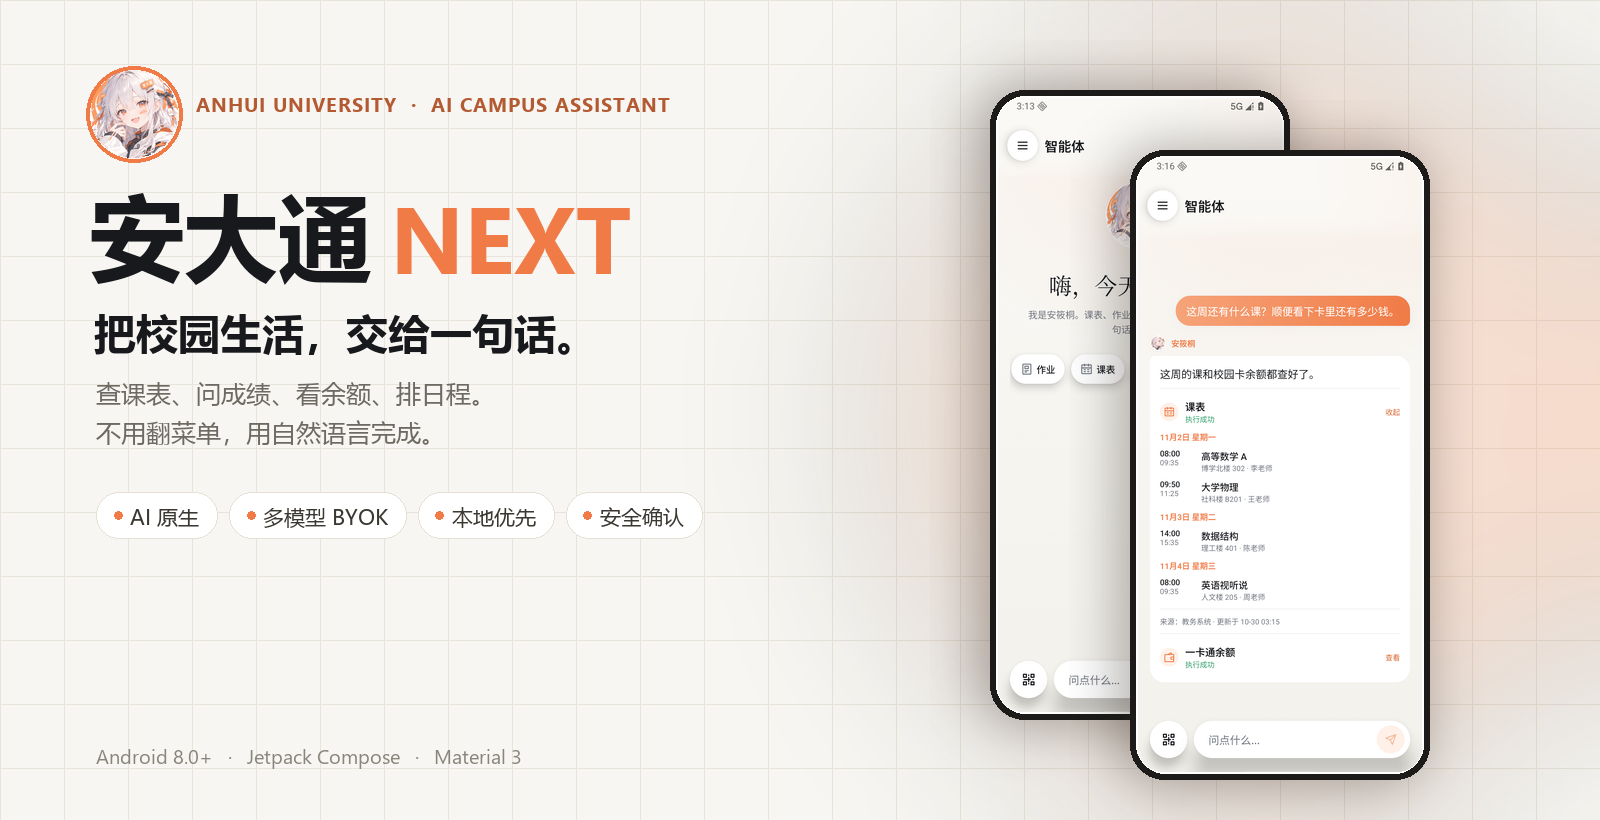
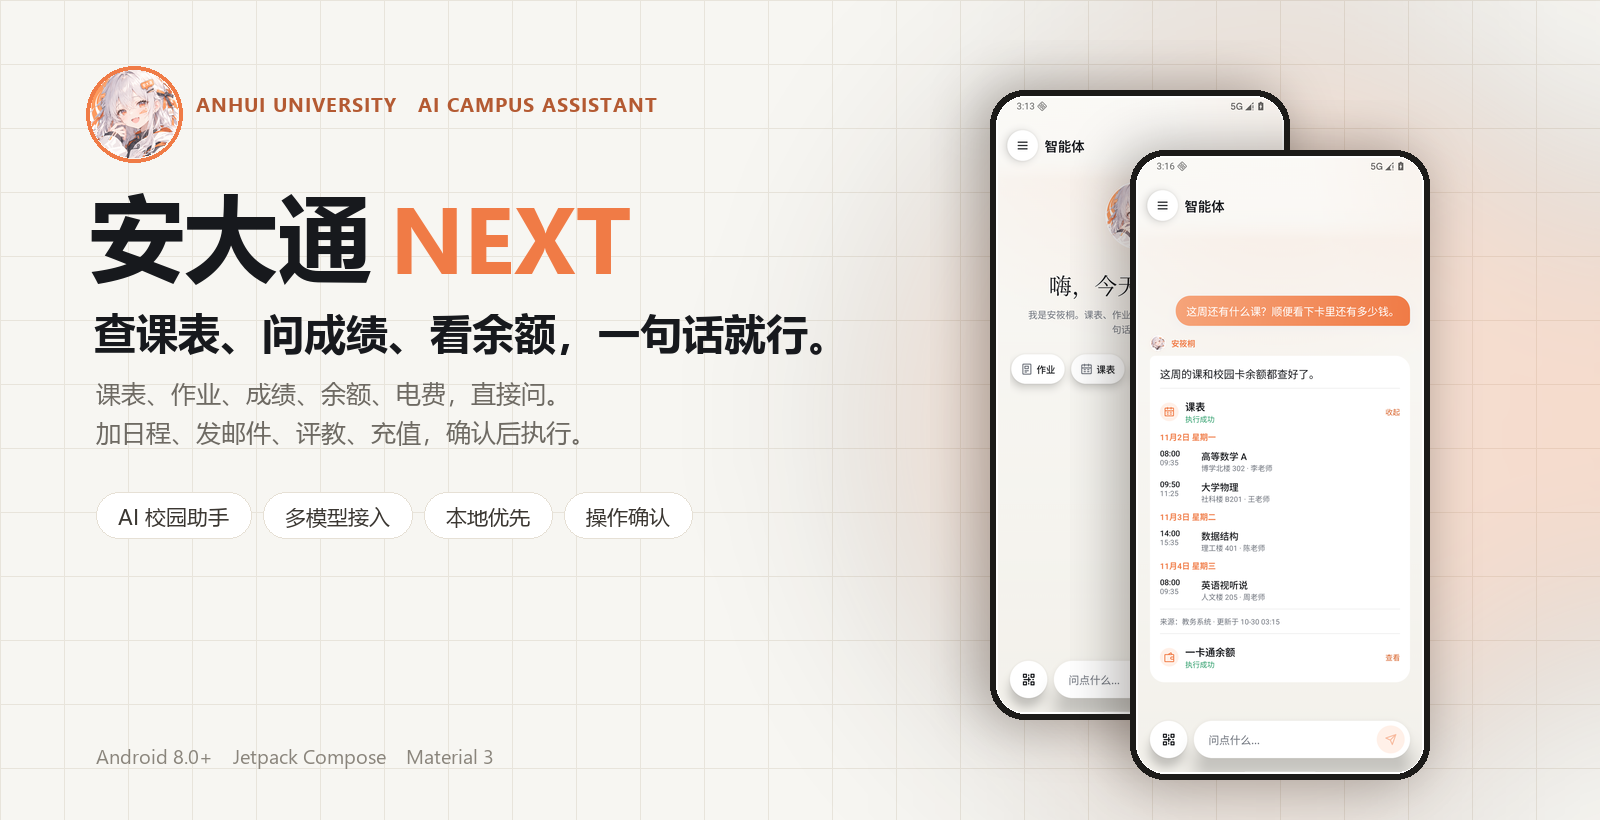
docs: rewrite the README in a plainer voice
Drop separator-dot copy and the marketing-style feature list. Keep the
light screenshots as the main view, with dark mode only in the theme pair.

diff --git a/README.md b/README.md
@@ -4,8 +4,7 @@
 
 <h1 align="center">安大通 NEXT</h1>
 
-<p align="center"><strong>把校园生活，交给一句话。</strong></p>
-<p align="center">安徽大学 AI 原生校园助手 · Android · Jetpack Compose</p>
+<p align="center">面向安徽大学的校园 AI 助手，Android 8.0 及以上，使用 Kotlin 和 Jetpack Compose。</p>
 
 <p align="center">
   <a href="../../releases/latest"><img src="https://img.shields.io/badge/下载-最新版本-F07B46?style=flat-square&logo=github&logoColor=white" alt="下载最新版本"></a>
@@ -14,18 +13,13 @@
   <img src="https://img.shields.io/badge/Compose-Material%203-F07B46?style=flat-square&logo=jetpackcompose&logoColor=white" alt="Jetpack Compose">
 </p>
 
-> 安大通 NEXT 是面向安徽大学的 AI 原生校园助手。用自然语言完成校园查询与日常操作，支持多模型接入、本地优先存储与可持续扩展的校园能力。
+## 能做什么
 
-## 为什么是 NEXT
+直接在对话框里说需求。查课表、作业、成绩、考试、余额、账单、电费、校园通知、空闲教室、失物招领和学生邮箱都可以。加日程、发邮件、评教、失物招领增删和充值会先弹确认，确认后才执行。
 
-大多数校园 App 把功能藏进一层层菜单里。NEXT 换了一个入口：**说出你要做的事**。
+模型可以自己配。设置里填 Base URL、模型名和 API Key，就能接 OpenAI 兼容的服务。对话、缓存和密钥默认留在本机，API Key 用 Android Keystore 加密。
 
-- **一句话办事**：课表、作业、成绩、考试、余额、账单、电费、通知、失物招领、空闲教室、学生邮箱……不用记入口，直接问。
-- **工具调用，不只是聊天**：模型通过结构化工具读取真实数据，结果以原生卡片呈现；需要确认的写操作会停在你面前。
-- **自带模型**：兼容 OpenAI 格式的模型服务，填好 Base URL、模型名和 API Key 就能切换，不被单一供应商锁死。
-- **本地优先**：对话、缓存和密钥默认留在本机；API Key 使用 Android Keystore 加密保存。
-- **安全边界**：网页、邮件、通知等外部内容只当数据，不当指令；充值等真实资金操作必须确认，支付密码不会进入模型上下文。
-- **用得舒服**：流式回复、Markdown 与公式渲染、亮暗双主题、可切换的助手性格，以及抽屉里的完整校园工具。
+界面支持亮色和暗色，回复是流式的，Markdown 和公式能正常显示。
 
 ## 截图
 
@@ -37,9 +31,9 @@
   <img src="docs/assets/screens/drawer-light.png" width="236" alt="校园工具抽屉">
 </div>
 
-<p align="center"><sub>截图中的课程与余额为演示数据；楼栋名称使用安徽大学真实校区。</sub></p>
+<p align="center"><sub>截图使用演示数据，楼栋名称取自安大校区。</sub></p>
 
-### 亮暗双主题
+### 亮色和暗色
 
 <div align="center">
   <img src="docs/assets/screens/chat-light.png" width="236" alt="亮色模式">
@@ -47,7 +41,9 @@
   <img src="docs/assets/screens/chat-dark.png" width="236" alt="暗色模式">
 </div>
 
-## 架构
+设置里可以跟随系统，也可以手动切换。
+
+## 结构
 
 ```mermaid
 flowchart LR
@@ -69,35 +65,25 @@ flowchart LR
 | `legacy-data` | 校园数据适配层，负责登录态与真实接口 |
 | `app` | Compose 界面、设置、会话历史与整体装配 |
 
-## 快速开始
+## 运行
 
-**环境**
-
-- JDK 17
-- Android SDK 36
-- Android 8.0（API 26）及以上设备
-
-**构建**
+需要 JDK 17 和 Android SDK 36，设备为 Android 8.0 及以上。
 
 ```bash
 ./gradlew :app:assembleDebug
 ```
 
-Debug APK 输出在 `app/build/outputs/apk/debug/app-debug.apk`。
+Debug APK 在 `app/build/outputs/apk/debug/app-debug.apk`。
 
-**首次使用**
-
-1. 打开应用，按引导完成初始化。
-2. 在「设置 → 模型与性格」填入模型服务的 Base URL、模型名和 API Key。
-3. 需要个人校园数据时，在「设置 → 账号与学习通」登录校园账号。
+首次打开后，按引导完成初始化。需要聊天功能时，在「设置 → 模型与性格」填模型服务的 Base URL、模型名和 API Key；需要个人校园数据时，在「设置 → 账号与学习通」登录校园账号。
 
 ## 安全与隐私
 
-- 高风险操作（充值、缴费、发邮件、删改内容等）必须经过确认卡；支付密码只在本机确认时使用。
-- 网页、邮件、通知、失物招领等外部内容会被标记为不可信数据，不应当作指令执行。
-- 写操作带有本地幂等保护：上一次结果未知时，不会自动重复提交。
-- 对话历史、缓存和模型密钥默认保存在本机；当前版本不包含广告或第三方行为分析 SDK。
-- 只有在调用模型时，完成当前任务所需的上下文才会发送给你配置的模型服务商。
+- 充值、缴费、发邮件、删改内容这类操作会先弹确认，支付密码只在本机使用。
+- 网页、邮件、通知、失物招领等外部内容按数据处理，不会当成指令执行。
+- 写操作有本地重复提交保护，上一次结果未知时不会自动重试。
+- 对话历史、缓存和模型密钥默认存在本机，当前版本没有广告或第三方行为分析 SDK。
+- 调用模型时，完成当前任务所需的上下文会发给你配置的服务商。
 
 ## English
 
